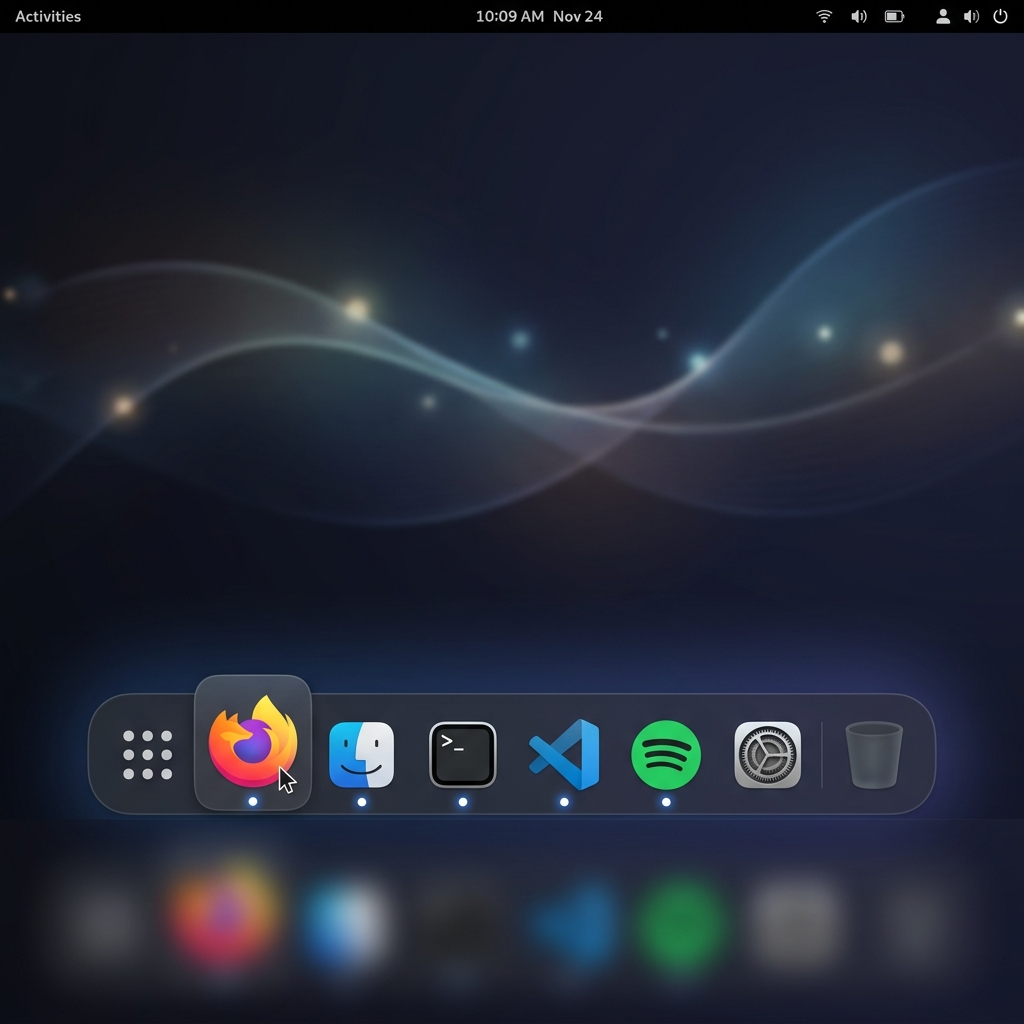
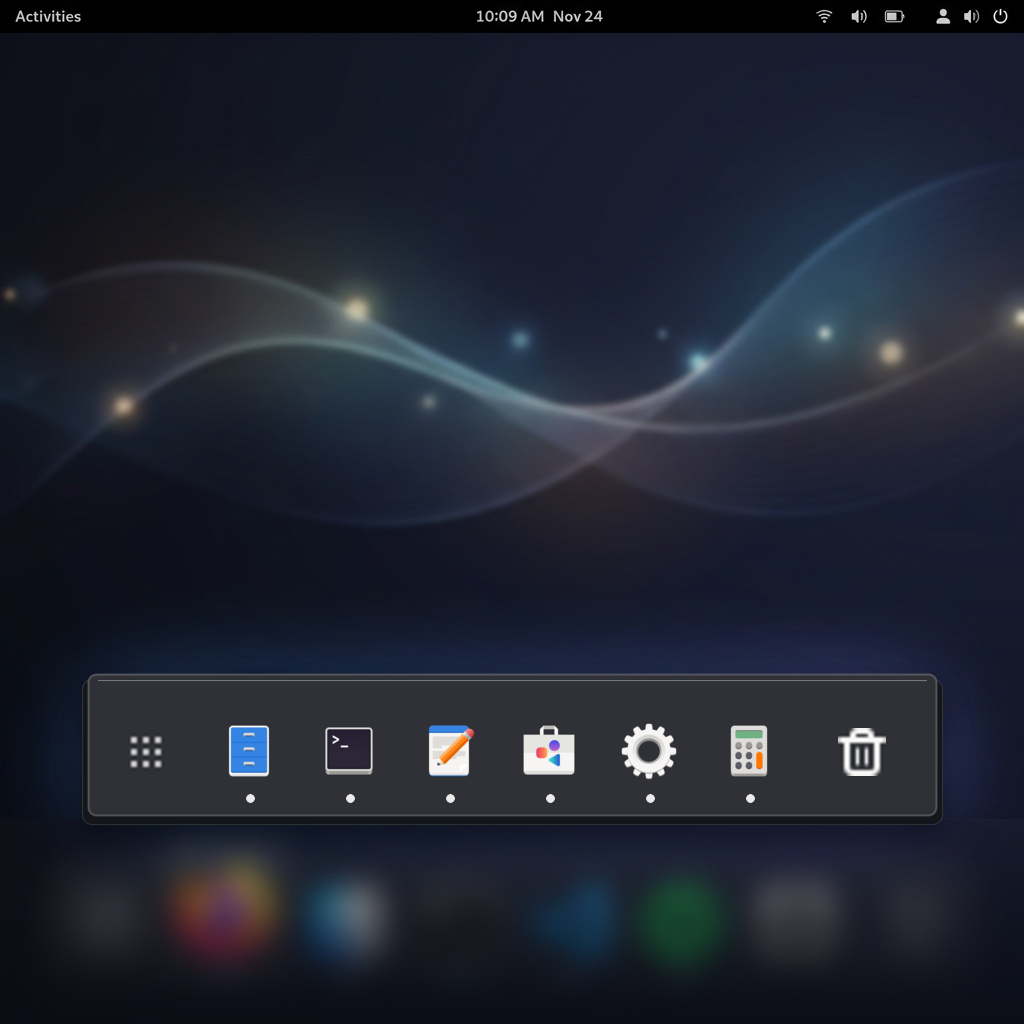
feat(dock): add gnome 3d shelf preset
Add a selectable GNOME-style raised shelf panel and matching preview.

AI: agentic

diff --git a/stylesheet.css b/stylesheet.css
@@ -6,14 +6,35 @@
     transition: all 250ms cubic-bezier(0.25, 1, 0.5, 1);
 }
 
+.dock-outer-box.dock-3d-shelf-base {
+    padding: 2px 3px 8px;
+    background-color: rgba(20, 22, 26, 0.92);
+    border: 1px solid rgba(255, 255, 255, 0.12);
+    border-radius: 10px;
+    box-shadow: 0 3px 0 rgba(0, 0, 0, 0.45), 0 13px 22px rgba(0, 0, 0, 0.50);
+}
+
 /* Base dock panel styling */
 .dock-container {
-    padding: 6px 10px;
+    padding: 6px 12px;
     margin: 4px;
     transition: all 250ms cubic-bezier(0.25, 1, 0.5, 1);
 }
 
-/* Glass Preset: Frosted Glass Pill Dock */
+/* GNOME-style raised shelf panel */
+.dock-container.dock-preset-leopard {
+    background-color: rgba(47, 49, 55, 0.98);
+    border: 1px solid rgba(255, 255, 255, 0.16);
+    border-top-color: rgba(255, 255, 255, 0.32);
+    border-radius: 8px;
+    box-shadow: inset 0 1px 0 rgba(255, 255, 255, 0.12), inset 0 -1px 0 rgba(0, 0, 0, 0.20);
+}
+
+.dock-3d-shelf-base .dock-container.dock-preset-leopard {
+    margin: 0;
+}
+
+/* 2D Frosted Glass Pill Preset */
 .dock-container.dock-preset-glass {
     background-color: rgba(28, 28, 38, 0.65);
     border: 1px solid rgba(255, 255, 255, 0.16);
@@ -21,15 +42,15 @@
     box-shadow: 0 16px 36px rgba(0, 0, 0, 0.45), inset 0 1px 0 rgba(255, 255, 255, 0.25);
 }
 
-/* Charcoal Preset: Dark Accent Panel */
+/* Charcoal GNOME Preset */
 .dock-container.dock-preset-charcoal {
-    background-color: rgba(18, 18, 18, 0.94);
+    background-color: rgba(30, 30, 30, 0.94);
     border: 1px solid rgba(255, 255, 255, 0.12);
     border-radius: 12px;
     box-shadow: 0 10px 30px rgba(0, 0, 0, 0.6);
 }
 
-/* Classic Preset */
+/* Classic Dark Preset */
 .dock-container.dock-preset-classic {
     background-color: rgba(36, 36, 36, 0.85);
     border: 1px solid rgba(255, 255, 255, 0.08);
@@ -42,15 +63,15 @@
     padding: 4px;
     margin: 0 3px;
     border-radius: 14px;
-    transition: background-color 150ms ease-in-out, transform 150ms ease-in-out;
+    transition: background-color 150ms ease-in-out, transform 150ms cubic-bezier(0.175, 0.885, 0.32, 1.275);
 }
 
 .dock-item-button:hover {
-    background-color: rgba(255, 255, 255, 0.15);
+    background-color: rgba(255, 255, 255, 0.18);
 }
 
 .dock-item-button:active {
-    background-color: rgba(255, 255, 255, 0.25);
+    background-color: rgba(255, 255, 255, 0.28);
     transform: scale(0.95);
 }
 
@@ -67,7 +88,8 @@
 .dock-indicator-dot {
     width: 5px;
     height: 5px;
-    background-color: rgba(255, 255, 255, 0.9);
+    background-color: rgba(255, 255, 255, 0.95);
+    box-shadow: 0 0 8px rgba(255, 255, 255, 1);
 }
 
 /* Accent bar indicator */
@@ -104,18 +126,18 @@
 /* Launcher Button */
 .dock-launcher-button {
     padding: 6px;
-    border-radius: 16px;
+    border-radius: 14px;
     background-color: rgba(255, 255, 255, 0.08);
 }
 
 .dock-launcher-button:hover {
-    background-color: rgba(53, 132, 228, 0.3);
+    background-color: rgba(53, 132, 228, 0.35);
 }
 
 /* Trash Icon Button */
 .dock-trash-button {
     padding: 6px;
-    border-radius: 16px;
+    border-radius: 14px;
 }
 
 .dock-trash-button:hover {
@@ -124,7 +146,7 @@
 
 /* Tooltip Popup */
 .dock-tooltip {
-    background-color: rgba(20, 20, 26, 0.92);
+    background-color: rgba(20, 20, 26, 0.94);
     color: #ffffff;
     font-size: 11pt;
     font-weight: 600;

diff --git a/prefs.js b/prefs.js
@@ -24,6 +24,7 @@ export default class GnomeDockPreferences extends ExtensionPreferences {
 
         // Preset Combo
         const presetModel = Gtk.StringList.new([
+            'GNOME 3D Shelf',
             'Glassmorphic Pill',
             'Charcoal Dark Accent',
             'Classic Dark'
@@ -34,7 +35,7 @@ export default class GnomeDockPreferences extends ExtensionPreferences {
             model: presetModel,
         });
 
-        const presetMap = ['glass', 'charcoal', 'classic'];
+        const presetMap = ['leopard', 'glass', 'charcoal', 'classic'];
         const currentPreset = settings.get_string('dock-preset');
         const presetIdx = presetMap.indexOf(currentPreset);
         if (presetIdx >= 0) presetRow.selected = presetIdx;
@@ -43,7 +44,11 @@ export default class GnomeDockPreferences extends ExtensionPreferences {
             const selectedStr = presetMap[presetRow.selected];
             settings.set_string('dock-preset', selectedStr);
 
-            if (selectedStr === 'glass') {
+            if (selectedStr === 'leopard') {
+                settings.set_string('indicator-style', 'dot');
+                settings.set_int('dock-corner-radius', 12);
+                settings.set_boolean('enable-magnification', true);
+            } else if (selectedStr === 'glass') {
                 settings.set_string('indicator-style', 'dot');
                 settings.set_int('dock-corner-radius', 24);
                 settings.set_boolean('enable-magnification', true);

diff --git a/dockContainer.js b/dockContainer.js
@@ -104,25 +104,30 @@ export const DockContainer = GObject.registerClass({
         this._innerContainer.vertical = isVertical;
 
         let presetClass = 'dock-preset-glass';
-        if (preset === 'charcoal') {
+        if (preset === 'leopard') {
+            presetClass = 'dock-preset-leopard';
+        } else if (preset === 'charcoal') {
             presetClass = 'dock-preset-charcoal';
         } else if (preset === 'classic') {
             presetClass = 'dock-preset-classic';
         }
 
+        this._outerBox.style_class = `dock-outer-box ${preset === 'leopard' ? 'dock-3d-shelf-base' : ''}`;
         this._innerContainer.style_class = `dock-container ${presetClass}`;
 
         const translucency = this.settings.get_double('dock-translucency');
         const radius = this.settings.get_int('dock-corner-radius');
 
+        let style = `border-radius: ${radius}px;`;
         let bgRgba = 'rgba(28, 28, 38, ' + translucency + ')';
         if (preset === 'charcoal') {
             bgRgba = 'rgba(18, 18, 18, ' + translucency + ')';
         }
 
-        this._innerContainer.set_style(
-            `background-color: ${bgRgba}; border-radius: ${radius}px;`
-        );
+        if (preset !== 'leopard')
+            style = `background-color: ${bgRgba}; ${style}`;
+
+        this._innerContainer.set_style(style);
 
         this.updatePosition();
     }
